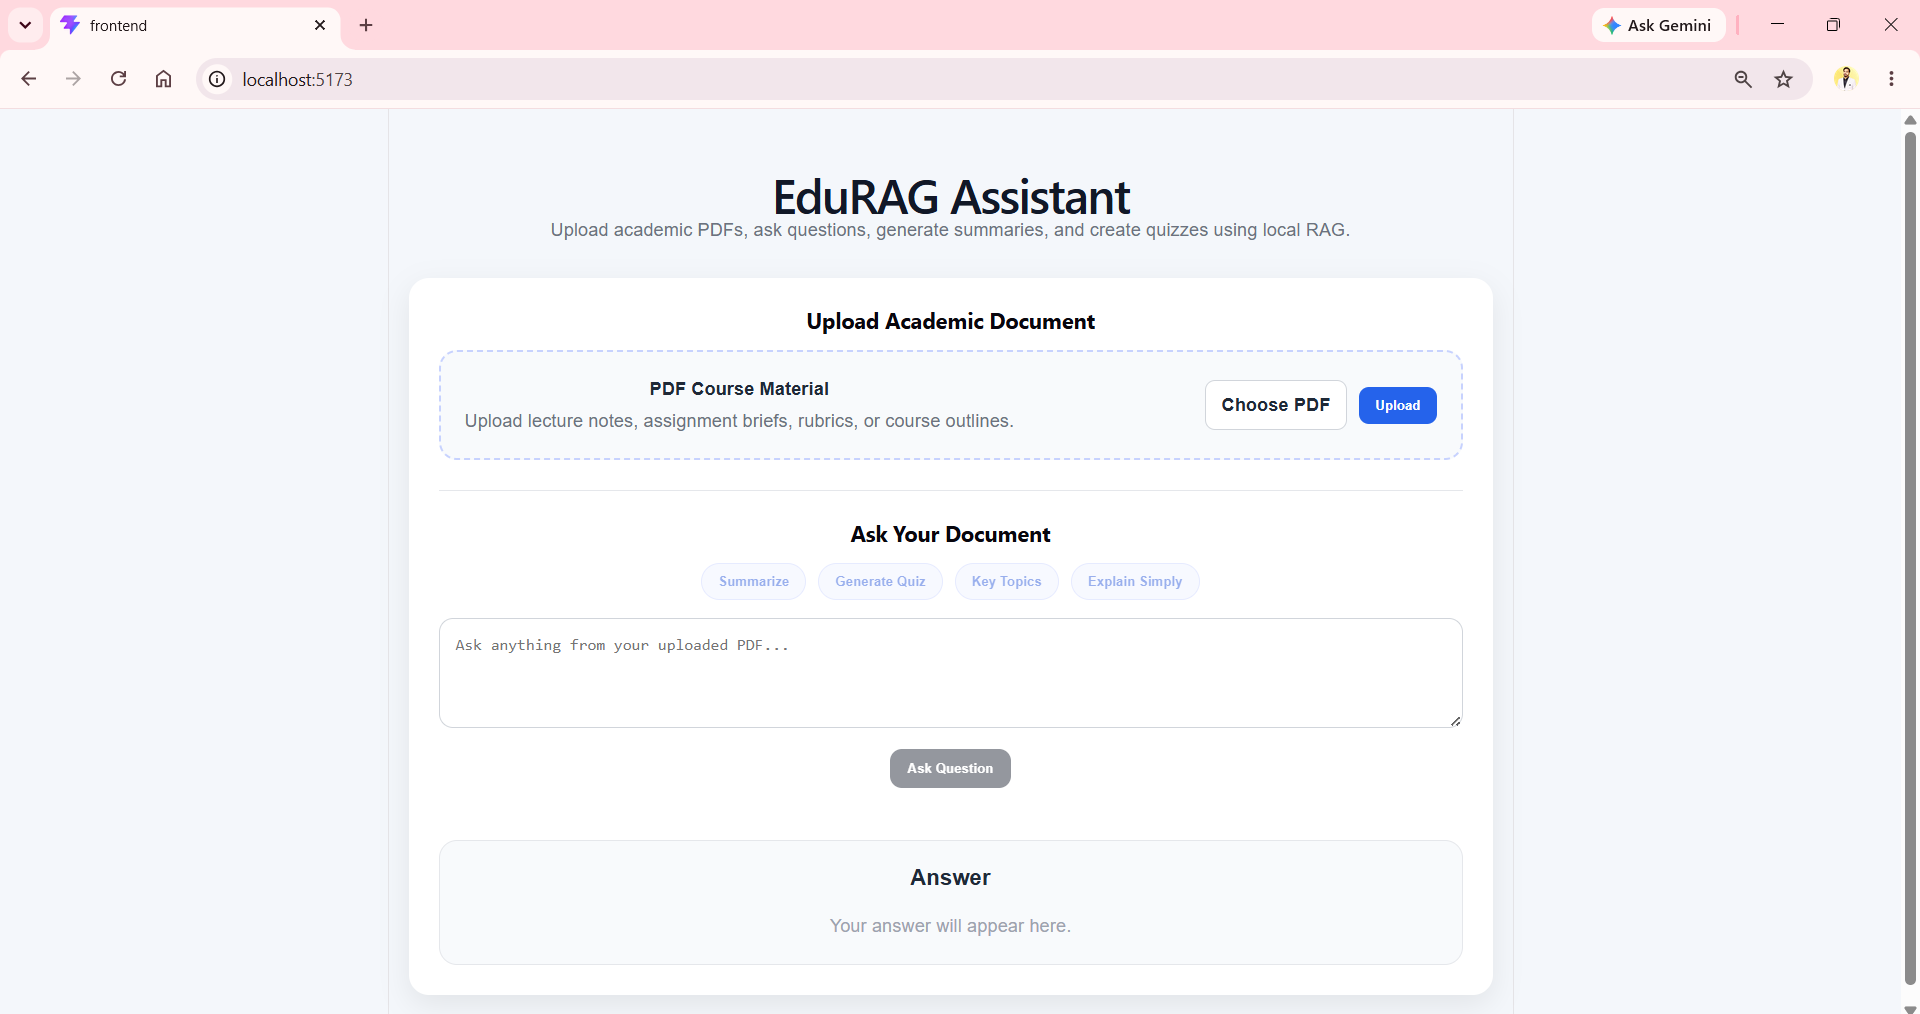
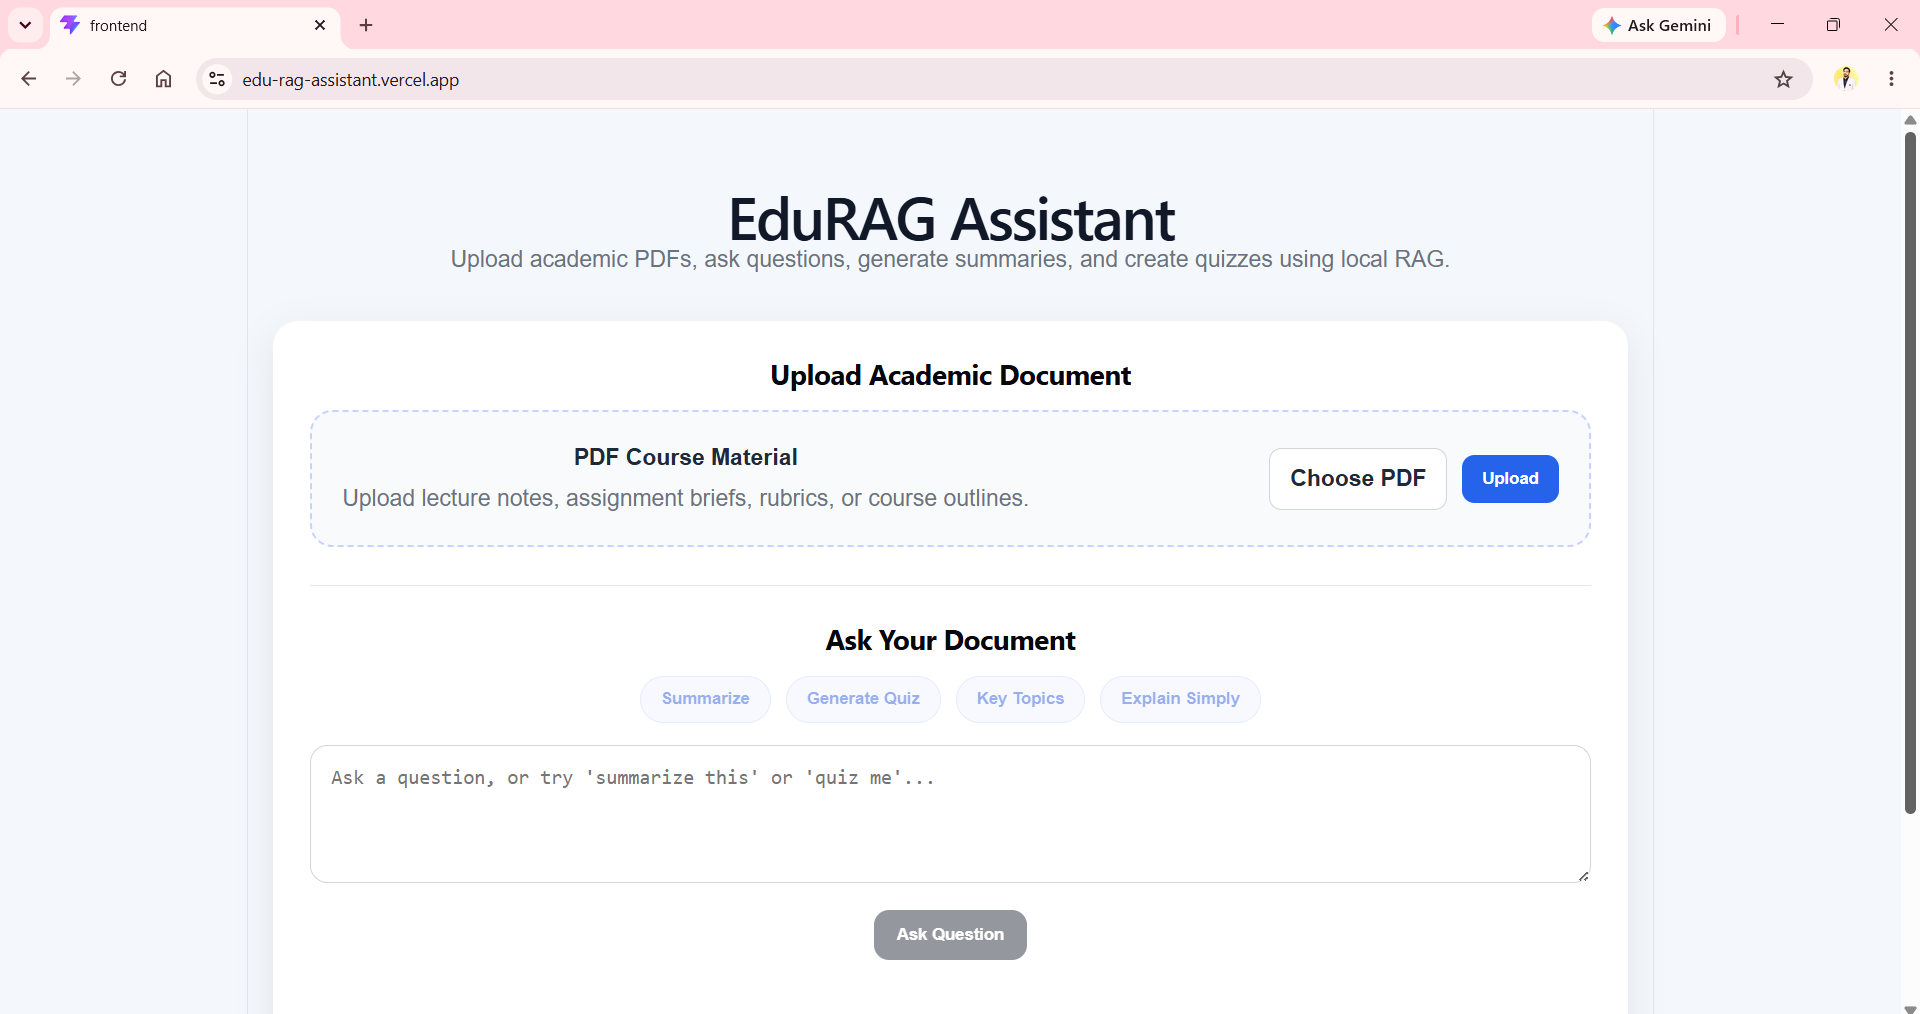
Update EduRAG project description to reflect agentic LangGraph architecture

diff --git a/src/App.tsx b/src/App.tsx
@@ -9,16 +9,16 @@ const NAV_LINKS = ['Work', 'Stack', 'About', 'Contact']
 
 const PROJECTS = [
   {
-    id: 'edurag',
-    label: 'Featured · Live',
-    title: 'EduRAG Assistant',
-    description: 'Full-stack RAG application for document intelligence. Upload a PDF, get natural language Q&A, summarization, quiz generation, topic extraction, and source-cited responses. Built solo from system design to production deployment.',
-    stack: ['Python', 'FastAPI', 'LangChain', 'Groq API', 'ChromaDB', 'HuggingFace', 'React', 'TypeScript'],
-    github: 'https://github.com/Fahad-12345/EduRAG-Assistant',
-    live: 'https://edu-rag-assistant.vercel.app',
-    featured: true,
-    image: '/projects/EduRAG.png',
-  },
+  id: 'edurag',
+  label: 'Featured · Live',
+  title: 'EduRAG Assistant',
+  description: 'Full-stack agentic RAG application for document intelligence. A LangGraph-based system classifies intent, retrieves relevant context, and routes to Q&A, summarization, quiz generation, or topic extraction — with a relevance-gated grounding check that blocks hallucinated answers before generation. Built solo from system design to production deployment.',
+  stack: ['Python', 'FastAPI', 'LangGraph', 'LangChain', 'Groq API', 'ChromaDB', 'HuggingFace', 'React', 'TypeScript'],
+  github: 'https://github.com/Fahad-12345/EduRAG-Assistant',
+  live: 'https://edu-rag-assistant.vercel.app',
+  featured: true,
+  image: '/projects/EduRAG.png',
+},
   {
     id: 'ppe',
     label: 'Computer Vision',